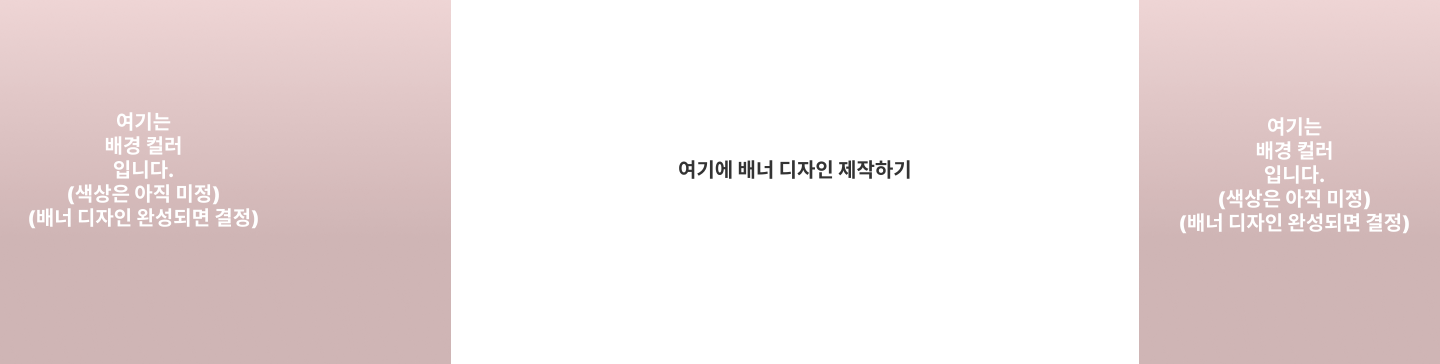
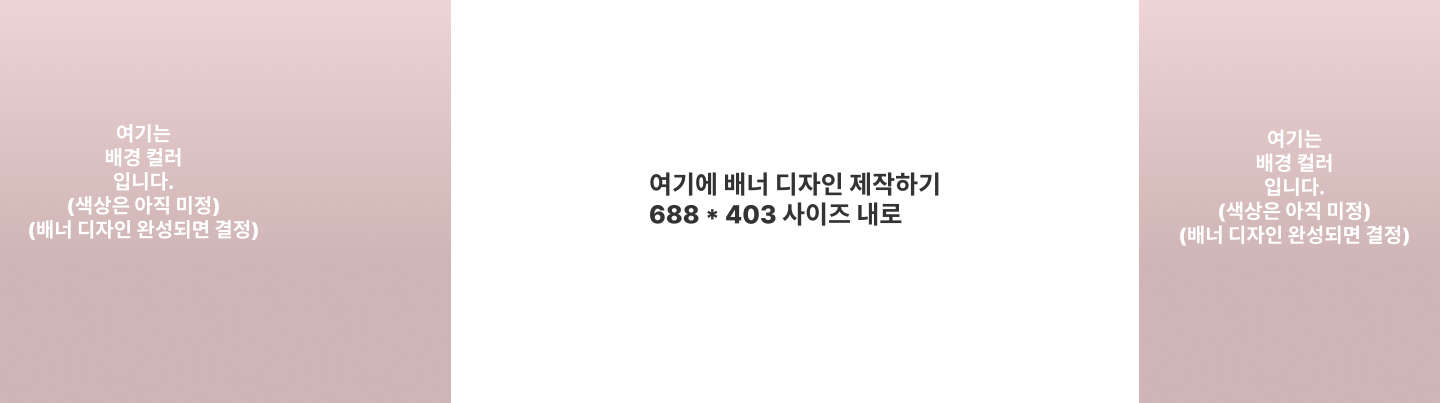
판매자 카테고리 설계

Changed region(s): [[0.0, 0.3324, 0.1875, 0.6346], [0.8125, 0.3324, 1.0, 0.6346], [0.4375, 0.4231, 0.6562, 0.5742]]

diff --git a/src/components/category/SellerCategory.js b/src/components/category/SellerCategory.js
@@ -1,0 +1,64 @@
+// 판매자 카테고리 컴포넌트
+import React from "react";
+import { Link } from "react-router-dom";
+import Container from "../shared/Container";
+import HorizontalRule from "../shared/HorizontalRule";
+import styles from "./SellerCategory.module.css";
+
+function SellerCategory({ sellerId, page = 1, size = 10 }) {
+  return (
+    <>
+      <Container>
+        <div className={styles.menu}>
+          <h1 className={styles.category}>카테고리</h1>
+          <div className={styles.categoryList}>
+            <Link to={`/my`} className={styles.link}>
+              <h2 className={styles.title}>회원 정보</h2>
+            </Link>
+            <Link
+              to={`/seller/seller-id=${sellerId}&page=${page}&size=${size}`}
+              className={styles.link}
+            >
+              <h2 className={styles.title}>구독 관리</h2>
+            </Link>
+            <Link
+              to={`/seller/seller-id=${sellerId}&page=${page}&size=${size}`}
+              className={styles.link}
+            >
+              <h2 className={styles.title}>주문 조회</h2>
+            </Link>
+            <div className={styles.line}>
+              <HorizontalRule />
+            </div>
+            <Link to={`/management`} className={styles.link}>
+              <h2 className={styles.title}>대시보드</h2>
+            </Link>
+            <Link
+              to={`/seller/order-status?seller-id=${sellerId}&page=${page}&size=${size}`}
+              className={styles.link}
+            >
+              <h2 className={styles.title}>주문 현황</h2>
+            </Link>
+            <Link
+              to={`/seller/seller-id=${sellerId}&page=${page}&size=${size}`}
+              className={styles.link}
+            >
+              <h2 className={styles.title}>판매 상품 관리</h2>
+            </Link>
+            <div className={styles.line}>
+              <HorizontalRule />
+            </div>
+            <Link to={`/introduction`} className={styles.link}>
+              <h2 className={styles.title}>소개 페이지</h2>
+            </Link>
+          </div>
+        </div>
+        <div className={styles.home}>
+          <Link to="/">홈으로</Link>
+        </div>
+      </Container>
+    </>
+  );
+}
+
+export default SellerCategory;

diff --git a/src/pages/OrderListPage.js b/src/pages/OrderListPage.js
@@ -1,27 +1,28 @@
 import React, { useState, useEffect } from "react";
 import { useLocation, useParams } from "react-router-dom";
-import Category from "../components/category/Category";
+import SellerCategory from "../components/category/SellerCategory";
 import { getOrderStatus } from "../api/api.js";
 import styles from "./OrderListPage.module.css";
 
 function OrderListPage() {
   const location = useLocation();
-  const { sellerId } = useParams(); // sellerId를 useParams 훅을 통해 추출
+  const { sellerId } = useParams();
   const [orders, setOrders] = useState([]);
+  // eslint-disable-next-line
   const [page, setPage] = useState(1);
+  // eslint-disable-next-line
   const [size, setSize] = useState(10);
   const [isCategoryVisible, setIsCategoryVisible] = useState(false);
 
   useEffect(() => {
     const fetchData = async () => {
       try {
-        // sellerId가 없으면 반환
         if (!sellerId) {
           return;
         }
         const searchParams = new URLSearchParams(location.search);
-        const currentPage = searchParams.get("page") || page; // URL 파라미터에서 page 값을 가져옴
-        const pageSize = searchParams.get("size") || size; // URL 파라미터에서 size 값을 가져옴
+        const currentPage = searchParams.get("page") || page;
+        const pageSize = searchParams.get("size") || size;
         const orderStatusData = await getOrderStatus(
           sellerId,
           currentPage,
@@ -52,7 +53,7 @@ function OrderListPage() {
         }`}
       >
         <div className={styles.categoryContent}>
-          <Category />
+          <SellerCategory />
         </div>
       </div>
       <div className={styles.container}>

diff --git a/src/pages/ManagementPage.js b/src/pages/ManagementPage.js
@@ -1,8 +1,7 @@
 // 판매자 관리 페이지입니다.
-// Category는 판메자 카테고리로 수정
 import React, { useState } from "react";
 import { Link, useParams } from "react-router-dom";
-import Category from "../components/category/Category";
+import SellerCategory from "../components/category/SellerCategory";
 import ManagementHeader from "../components/managements/ManagementHeader";
 import ProductList from "../components/managements/ProductList";
 import OrderList from "../components/managements/OrderList";
@@ -11,7 +10,9 @@ import styles from "./ManagementPage.module.css";
 
 function ManagementPage() {
   const { sellerId } = useParams();
+  // eslint-disable-next-line
   const [page, setPage] = useState(1);
+  // eslint-disable-next-line
   const [size, setSize] = useState(10);
   const [isCategoryVisible, setIsCategoryVisible] = useState(false);
 
@@ -30,7 +31,7 @@ function ManagementPage() {
         }`}
       >
         <div className={styles.categoryContent}>
-          <Category />
+          <SellerCategory sellerId={sellerId} page={page} size={size} />
         </div>
       </div>
       <div>

diff --git a/src/components/category/SellerCategory.module.css b/src/components/category/SellerCategory.module.css
@@ -1,0 +1,60 @@
+.category {
+  padding: 0;
+  color: #000;
+  font-size: 20px;
+  font-weight: 500;
+  margin-bottom: 30px;
+  margin-left: 18px;
+  opacity: 50%;
+}
+
+.categoryList {
+  opacity: 60%;
+}
+
+.menu {
+  padding: 20px 0px 10px 30px;
+  list-style: none;
+  font-size: 13px;
+  background-color: #fff;
+  color: #000;
+  width: 170px;
+  text-align: left;
+}
+
+.categoryList a:hover,
+.categoryList a:active {
+  font-weight: 700;
+}
+
+/* 폰트 색상 #fff 적용해야 함 */
+.home {
+  padding: 10px 10px 10px 30px;
+  color: #fff !important;
+  font-size: 18px;
+  font-weight: 700;
+  background-color: rgba(108, 93, 211, 0.6);
+  width: 170px;
+
+  border-radius: 8px;
+}
+
+button {
+  background-color: rgba(108, 93, 211, 0);
+  border-style: hidden;
+  cursor: pointer;
+  color: #fff;
+  font-size: 18px;
+}
+
+.title:hover {
+  background-color: rgba(108, 93, 211, 0.5);
+  border-radius: 10px;
+  margin: 5px;
+  width: 90%;
+}
+
+.line {
+  margin-top: 20px;
+  margin-bottom: 20px;
+}

diff --git a/src/pages/UserIntroductionPage.js b/src/pages/UserIntroductionPage.js
@@ -3,7 +3,7 @@ import UserProfile from "../components/userIntro/UserProfile";
 import PostList from "../components/userIntro/PostList";
 import PostModal from "../components/userIntro/PostModal";
 import styles from "./UserIntroductionPage.module.css";
-import Category from "../components/category/Category";
+import SellerCategory from "../components/category/SellerCategory";
 import Container from "../components/shared/Container";
 
 function UserIntroductionPage() {
@@ -105,7 +105,7 @@ function UserIntroductionPage() {
           }`}
         >
           <div className={styles.categoryContent}>
-            <Category />
+            <SellerCategory />
           </div>
         </div>
         <Container>

diff --git a/src/components/category/SellerCategoryItem.js b/src/components/category/SellerCategoryItem.js
@@ -1,0 +1,21 @@
+import React from "react";
+import { Link } from "react-router-dom";
+import styles from "./CategoryItem.module.css";
+import Container from "../shared/Container";
+
+function SellerCategoryItem({ category, color, page = 1, size = 10 }) {
+  return (
+    <Container className={styles.container}>
+      <Link
+        to={`/item?category-id=${category.id}&page=${page}&size=${size}`}
+        className={styles.link}
+      >
+        <h2 className={styles.title} style={{ color: color }}>
+          {category.name}
+        </h2>
+      </Link>
+    </Container>
+  );
+}
+
+export default SellerCategoryItem;

diff --git a/src/components/header/Nav.js b/src/components/header/Nav.js
@@ -2,7 +2,7 @@
 import { Link, NavLink } from "react-router-dom";
 import Container from "../shared/Container";
 import Notifications from "./Notifications";
-import logoImg from "../../assets/logo.png";
+import logoImg from "../../assets/logoVer2.png";
 import styles from "./Nav.module.css";
 import SearchBar from "./SearchBar";
 

diff --git a/src/components/category/SellerCategoryItem.module.css b/src/components/category/SellerCategoryItem.module.css
@@ -1,0 +1,18 @@
+.container {
+  margin: 0px;
+  text-align: left;
+  transition: background-color 0.3s ease;
+}
+
+.container:hover {
+  background-color: rgba(72, 115, 93, 0.5);
+  border-radius: 10px;
+  margin: 5px;
+  width: 80%;
+}
+
+.containerMain:hover {
+  border-radius: 0px;
+  margin: 5px;
+  width: 80%;
+}

diff --git a/src/components/main/Banner.module.css b/src/components/main/Banner.module.css
@@ -1,6 +1,6 @@
 .banner {
   position: relative;
-  height: 364px; /* 이미지의 높이 364px로 설정 */
+  height: 403px; /* 이미지의 높이 364px로 설정 */
   background-image: url("../../assets/banner-sample.png");
   background-repeat: no-repeat;
   background-position: center;

diff --git a/src/components/header/Nav.module.css b/src/components/header/Nav.module.css
@@ -35,7 +35,7 @@ ul.nav_top > li:not(:last-child) {
 .logo {
   width: 180px;
   height: 100px;
-  border-radius: 25px;
+  border-radius: 54px;
 }
 
 ul.nav_bottom {
